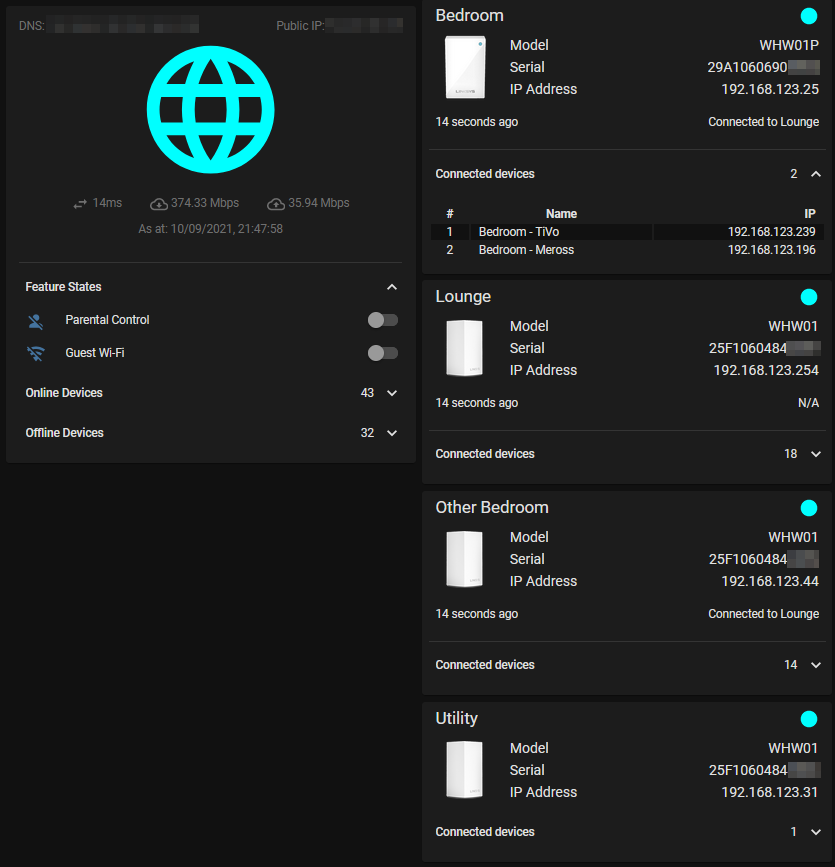
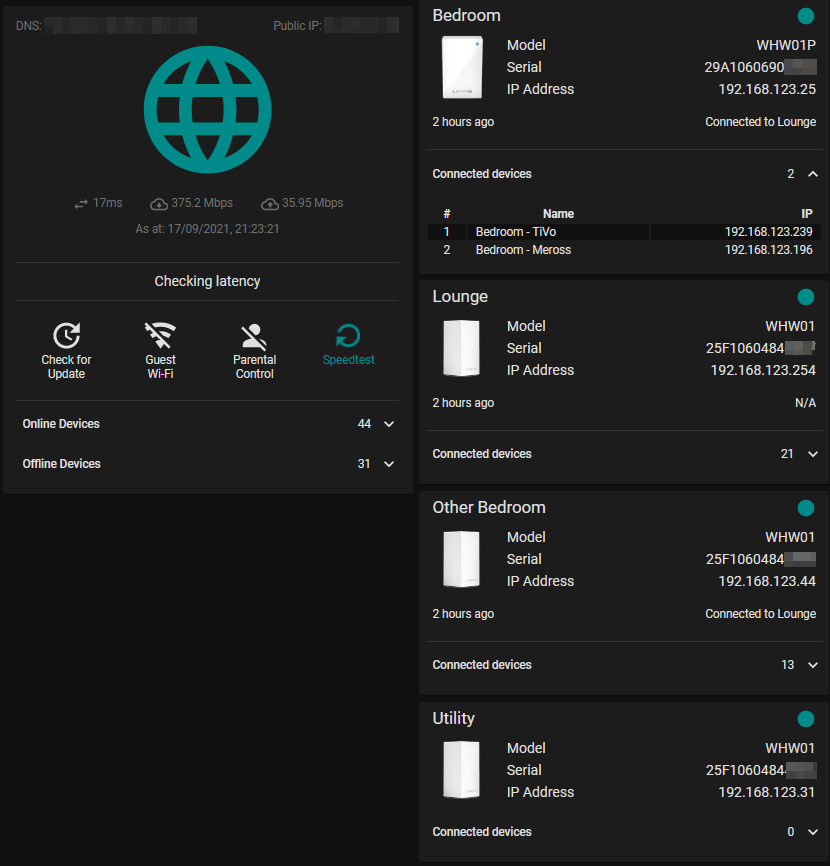
Update README with new YAML view
This new view has the updated switch panel in, some updated colours (so they're less harsh) and the status panel

diff --git a/README.md b/README.md
@@ -130,7 +130,7 @@ To create this view a number of custom cards have been used.  These are: -
   <summary>YAML for the view</summary>
 
   ```yaml
-- title: Mesh
+  - title: Mesh
     path: mesh
     icon: ''
     badges: []
@@ -183,9 +183,9 @@ To create this view a number of custom cards have been used.  These are: -
                 ]]]
             state:
               - value: 'on'
-                color: cyan
+                color: darkcyan
               - value: 'off'
-                color: red
+                color: darkred
             styles:
               card:
                 - padding: 16px
@@ -195,7 +195,7 @@ To create this view a number of custom cards have been used.  These are: -
                     "attr_speedtest_details attr_speedtest_details
                     attr_speedtest_details" "attr_speedtest_latest
                     attr_speedtest_latest attr_speedtest_latest"
-                - grid-template-rows: 5% 1fr 5% 5%
+                - grid-template-rows: 5% 1fr 15% 5%
                 - grid-template-columns: 1fr min-content 1fr
               custom_fields:
                 attr_dns_servers:
@@ -217,32 +217,151 @@ To create this view a number of custom cards have been used.  These are: -
               #attr_dns_servers::before { content: 'DNS: ' }
           - type: entities
             entities:
+              - type: conditional
+                conditions:
+                  - entity: binary_sensor.velop_mesh_speedtest_status
+                    state: 'on'
+                row:
+                  type: divider
+              - type: conditional
+                conditions:
+                  - entity: binary_sensor.velop_mesh_speedtest_status
+                    state: 'on'
+                row:
+                  type: custom:button-card
+                  entity: binary_sensor.velop_mesh_speedtest_status
+                  show_icon: false
+                  show_name: false
+                  show_label: true
+                  label: '[[[ return entity.attributes.status ]]]'
+                  tap_action:
+                    action: none
+                  styles:
+                    card:
+                      - box-shadow: none
+                      - padding: 4px
+                card_mod:
+                  style:
+                    hui-attribute-row$:
+                      hui-generic-entity-row$: >
+                        state-badge, .info.pointer.text-content { display: none;
+                        }
+                      hui-generic-entity-row: >
+                        div { text-align: center !important; width: 100%;
+                        margin: 0; padding: 4px; }
+              - type: divider
+              - type: custom:stack-in-card
+                mode: horizontal
+                keep:
+                  margin: true
+                card_mod:
+                  style: |
+                    ha-card { box-shadow: none }
+                cards:
+                  - type: custom:button-card
+                    entity: binary_sensor.velop_mesh_check_for_updates_status
+                    tap_action:
+                      action: call-service
+                      service: linksys_velop.check_updates
+                    name: Check for Update
+                    icon: hass:update
+                    state:
+                      - value: 'on'
+                        color: darkcyan
+                        icon: hass:refresh
+                        spin: true
+                      - value: 'off'
+                        color: var(--primary-text-color)
+                    styles:
+                      card:
+                        - margin-bottom: 3px
+                      name:
+                        - white-space: normal
+                        - font-size: smaller
+                        - color: |
+                            [[[
+                              var ret = 'var(--primary-text-color)'
+                              if (entity.state == 'on') {
+                                ret = 'darkcyan'
+                              }
+                              return ret
+                            ]]]
+                  - type: custom:button-card
+                    entity: switch.velop_mesh_guest_wi_fi
+                    tap_action:
+                      action: none
+                    name: Guest<br />Wi-Fi
+                    state:
+                      - value: 'on'
+                        color: darkcyan
+                      - value: 'off'
+                        color: var(--primary-text-color)
+                    styles:
+                      card:
+                        - margin-bottom: 3px
+                      name:
+                        - font-size: smaller
+                        - color: |
+                            [[[
+                              var ret = 'var(--primary-text-color)'
+                              if (entity.state == 'on') {
+                                ret = 'darkcyan'
+                              }
+                              return ret
+                            ]]]
+                  - type: custom:button-card
+                    entity: switch.velop_mesh_parental_control
+                    tap_action:
+                      action: toggle
+                    name: Parental<br />Control
+                    state:
+                      - value: 'on'
+                        color: darkcyan
+                      - value: 'off'
+                        color: var(--primary-text-color)
+                    styles:
+                      card:
+                        - margin-bottom: 3px
+                      name:
+                        - font-size: smaller
+                        - color: |
+                            [[[
+                              var ret = 'var(--primary-text-color)'
+                              if (entity.state == 'on') {
+                                ret = 'darkcyan'
+                              }
+                              return ret
+                            ]]]
+                  - type: custom:button-card
+                    entity: binary_sensor.velop_mesh_speedtest_status
+                    tap_action:
+                      action: call-service
+                      service: linksys_velop.start_speedtest
+                    name: Speedtest
+                    icon: hass:refresh
+                    state:
+                      - value: 'on'
+                        color: darkcyan
+                        spin: true
+                      - value: 'off'
+                        color: var(--primary-text-color)
+                    styles:
+                      card:
+                        - margin-bottom: 3px
+                      name:
+                        - font-size: smaller
+                        - color: |
+                            [[[
+                              var ret = 'var(--primary-text-color)'
+                              if (entity.state == 'on') {
+                                ret = 'darkcyan'
+                              }
+                              return ret
+                            ]]]
               - type: divider
               - type: custom:fold-entity-row
                 padding: 0
-                head:
-                  type: custom:template-entity-row
-                  name: Feature States
-                  card_mod:
-                    style: |
-                      state-badge { display: none; }
-                      state-badge + div { margin-left: 8px !important; }
-                      .info.pointer { font-weight: 500; }
-                entities:
-                  - entity: switch.velop_mesh_parental_control
-                    name: Parental Control
-                  - entity: switch.velop_mesh_guest_wi_fi
-                    name: Guest Wi-Fi
-              - type: custom:fold-entity-row
-                padding: 0
                 clickable: true
-                group_config:
-                  card_mod:
-                    style:
-                      hui-generic-entity-row:
-                        $: |
-                          state-badge { display: none; }
-                          state-badge + div { margin-left: 8px !important; }
                 head:
                   type: custom:template-entity-row
                   entity: sensor.velop_mesh_online_devices
@@ -285,13 +404,6 @@ To create this view a number of custom cards have been used.  These are: -
               - type: custom:fold-entity-row
                 padding: 0
                 clickable: true
-                group_config:
-                  card_mod:
-                    style:
-                      hui-generic-entity-row:
-                        $: |
-                          state-badge { display: none; }
-                          state-badge + div { margin-left: 8px !important; }
                 head:
                   type: custom:template-entity-row
                   entity: sensor.velop_mesh_offline_devices
@@ -385,6 +497,7 @@ To create this view a number of custom cards have been used.  These are: -
                       size: 100%
                       show_entity_picture: true
                       show_last_changed: true
+                      show_state: true
                       entity_picture: >-
                         ${'/local/velop_nodes/' + states[ID_MODEL].state +
                         '.png'}
@@ -395,6 +508,13 @@ To create this view a number of custom cards have been used.  These are: -
                             ret = ret.replace("Velop", "").split(":")[0].trim()
                           }
                           return ret || "N/A"
+                        ]]]
+                      state_display: |
+                        [[[
+                          return `<ha-icon 
+                            icon="hass:checkbox-blank-circle"
+                            style="width: 24px; height: 24px;">
+                            </ha-icon>`
                         ]]]
                       custom_fields:
                         attr_label_model: Model
@@ -407,13 +527,6 @@ To create this view a number of custom cards have been used.  These are: -
                           states[ID_PARENT].state : 'N/A'}
                         attr_label_ip: IP Address
                         attr_ip: '[[[ return entity.attributes.ip || ''N/A'' ]]]'
-                        attr_status: |
-                          [[[
-                            return `<ha-icon 
-                              icon="hass:checkbox-blank-circle"
-                              style="width: 24px; height: 24px;">
-                              </ha-icon>`
-                          ]]]
                       extra_styles: >
                         div[id^="attr_"] { justify-self: end; }
                         div[id^="attr_label_"] { justify-self: start;
@@ -438,14 +551,14 @@ To create this view a number of custom cards have been used.  These are: -
                         custom_fields:
                           attr_parent:
                             - justify-self: end
-                          attr_status:
-                            - position: absolute
-                            - top: 8px
-                            - right: 16px
-                            - color: |-
-                                [[[
-                                  return (entity.state == 'on' ? 'cyan' : 'red')
-                                ]]]
+                        state:
+                          - position: absolute
+                          - top: 8px
+                          - right: 16px
+                          - color: |-
+                              [[[
+                                return (entity.state == 'on' ? 'darkcyan' : 'darkred')
+                              ]]]
                     - type: entities
                       card_mod:
                         style: |
